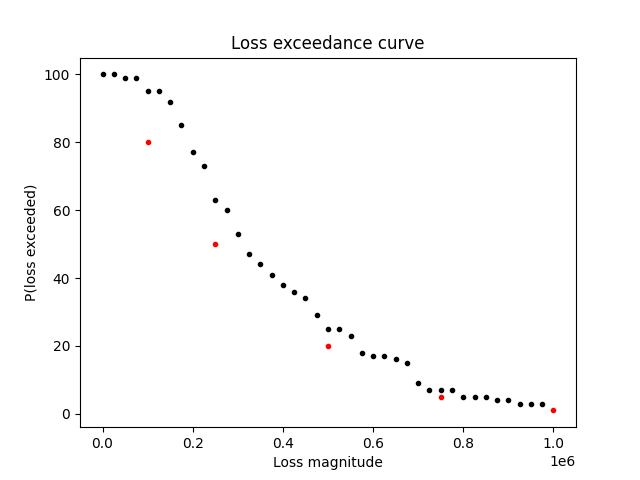
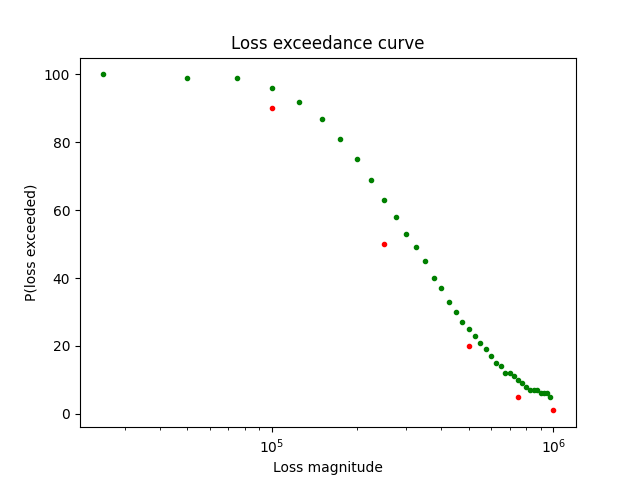
log scale

diff --git a/distros/cyberrisk_sim.py b/distros/cyberrisk_sim.py
@@ -75,6 +75,7 @@ def draw_loss_exceedance(lst, lst_for_risk_tolerance):
         ax.plot(x, perc, **{'color': 'green', 'marker': '.'})
     for x, perc in lst_for_risk_tolerance:
         ax.plot(x, perc, **{'color': 'red', 'marker': '.'})
+    ax.set_xscale('log')
     ax.set_xlabel('Loss magnitude')
     ax.set_ylabel('P(loss exceeded)')
     ax.set_title('Loss exceedance curve')
@@ -87,7 +88,7 @@ def draw_loss_exceedance(lst, lst_for_risk_tolerance):
 # górna granica oczekiwanej straty - LOSS(TE) -> UB = 1 000 000 PLN
 #
 # Istniejące środki bezpieczeństwa:
-# -> redukcja wystąpienia P(TE) o 70%
+# -> redukcja wystąpienia P(TE) o 50%
 #
 # Liczba symulacji: 1000
 #
@@ -103,8 +104,8 @@ TE = 0.1
 TE_LB = 100000
 TE_UB = 1000000
 STEP = 25000
-SEC_CTRL_RED = 0.7
-NO_SIMULATIONS = 1000
+SEC_CTRL_RED = 0.5
+NO_SIMULATIONS = 10000
 RISK_TOLERANCE = [[100000,90], [250000,50], [500000,20],[750000,5],[1000000,1]]
 
 # run:
